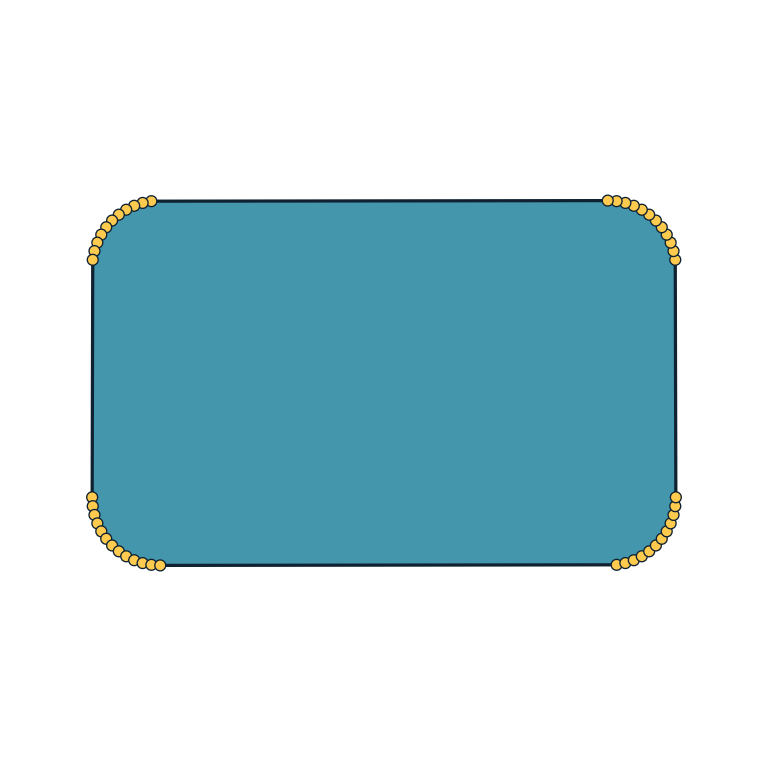
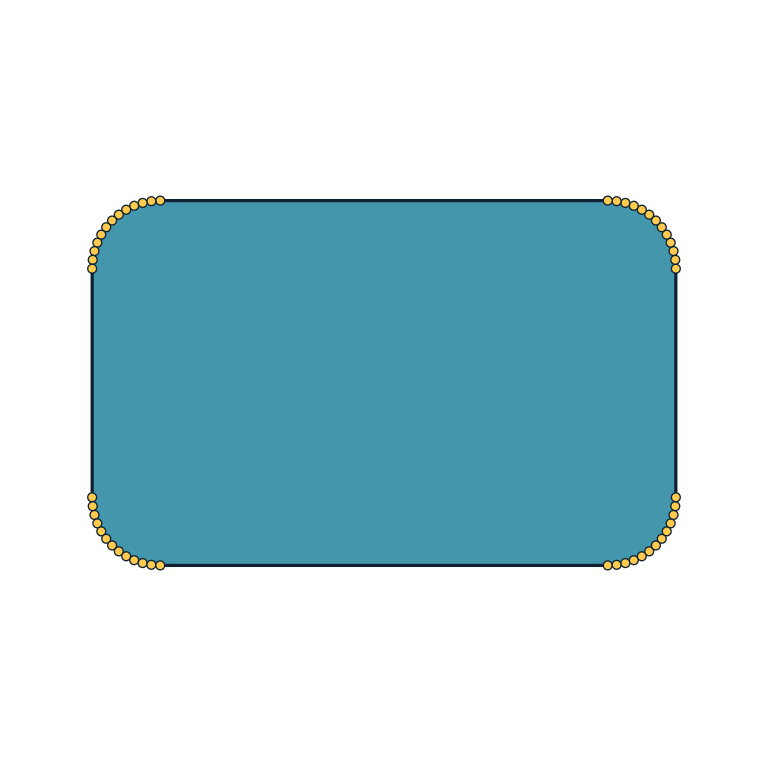
Retain rounded rectangle tangent endpoints and sampled-set fidelity

diff --git a/tests/rounded_rectangle_fidelity.rs b/tests/rounded_rectangle_fidelity.rs
@@ -1,0 +1,298 @@
+#![cfg(feature = "curve")]
+//! Sampling fidelity is separate from a certified topology decision.
+use csgrs::{GeometryCertainty, GeometryContext, Real, curve};
+use hypercurve::CurveRegion2;
+
+fn q(n: i32, d: i32) -> Real {
+    (Real::from(n) / Real::from(d)).unwrap()
+}
+
+fn vertices(region: &CurveRegion2) -> Vec<[Real; 2]> {
+    let profiles = region.boundary_profiles().unwrap();
+    assert_eq!(profiles.len(), 1);
+    let (material, holes) = profiles[0].linear_contours().unwrap().unwrap();
+    assert!(holes.is_empty());
+    material
+        .segments()
+        .iter()
+        .map(|edge| [edge.start().x().clone(), edge.start().y().clone()])
+        .collect()
+}
+
+#[test]
+fn one_chord_per_corner_retains_all_straight_sides_and_exact_area() {
+    let region = curve::rounded_rectangle(4.into(), 2.into(), q(1, 2), 1).unwrap();
+    // A 4x2 rectangle minus four right triangles with legs 1/2.
+    assert_eq!(region.filled_area().unwrap(), Some(q(15, 2)));
+    let expected = [
+        [Real::zero(), q(1, 2)],
+        [q(1, 2), Real::zero()],
+        [q(7, 2), Real::zero()],
+        [4.into(), q(1, 2)],
+        [4.into(), q(3, 2)],
+        [q(7, 2), 2.into()],
+        [q(1, 2), 2.into()],
+        [Real::zero(), q(3, 2)],
+    ];
+    let actual = vertices(&region);
+    assert_eq!(actual.len(), expected.len());
+    assert!(expected.iter().all(|point| actual.contains(point)));
+}
+
+#[test]
+fn clamped_capsules_keep_nonzero_straight_sides() {
+    for (width, height) in [(4, 2), (2, 4)] {
+        for radius in [1, 100] {
+            let region =
+                curve::rounded_rectangle(width.into(), height.into(), radius.into(), 1)
+                    .unwrap();
+            // The corner radius clamps to one: 8 - 4*(1/2) = 6.
+            assert_eq!(region.filled_area().unwrap(), Some(6.into()));
+            assert_eq!(vertices(&region).len(), 6);
+        }
+    }
+}
+
+#[test]
+fn original_published_sampling_resolutions_retain_tangent_vertices() {
+    for (label, width, height, requested_radius, radius, samples) in [
+        ("benchmark", 12.into(), 8.into(), 2.into(), 2.into(), 8),
+        (
+            "README rational dimensions",
+            q(24, 10),
+            q(15, 10),
+            q(28, 100),
+            q(28, 100),
+            12,
+        ),
+        (
+            "README literal ingress",
+            Real::try_from(2.4).unwrap(),
+            Real::try_from(1.5).unwrap(),
+            Real::try_from(0.28).unwrap(),
+            Real::try_from(0.28).unwrap(),
+            12,
+        ),
+        ("strict catalog", 2.into(), 1.into(), q(3, 4), q(1, 2), 4),
+    ] {
+        let result = curve::rounded_rectangle_with_context(
+            width.clone(),
+            height.clone(),
+            requested_radius,
+            samples,
+            &GeometryContext::STRICT,
+        )
+        .unwrap();
+        assert_eq!(result.certainty, GeometryCertainty::Certified);
+        let actual = vertices(&result.value);
+        for expected in [
+            [Real::zero(), radius.clone()],
+            [radius.clone(), Real::zero()],
+            [&width - &radius, Real::zero()],
+            [width.clone(), radius.clone()],
+            [width.clone(), &height - &radius],
+            [&width - &radius, height.clone()],
+            [radius.clone(), height.clone()],
+            [Real::zero(), &height - &radius],
+        ] {
+            assert!(
+                actual.contains(&expected),
+                "{label}: omitted tangent {expected:?}"
+            );
+        }
+    }
+}
+
+#[test]
+fn full_radius_and_sharp_corner_controls_remain_defined() {
+    let diamond = curve::rounded_rectangle(2.into(), 2.into(), 1.into(), 1).unwrap();
+    assert_eq!(diamond.filled_area().unwrap(), Some(2.into()));
+    assert_eq!(vertices(&diamond).len(), 4);
+    for (radius, samples) in [(0, 3), (1, 0)] {
+        let sharp =
+            curve::rounded_rectangle(4.into(), 2.into(), radius.into(), samples).unwrap();
+        assert_eq!(sharp.filled_area().unwrap(), Some(8.into()));
+        assert_eq!(vertices(&sharp).len(), 4);
+    }
+}
+
+#[test]
+fn algebraic_corners_and_symbolic_dimensions_keep_independently_known_areas() {
+    let octants = curve::rounded_rectangle(4.into(), 2.into(), q(1, 2), 2).unwrap();
+    // Four quarter-circle sectors become eight triangles of central angle pi/4.
+    let area = Real::from(7) + q(1, 2) * Real::from(2).sqrt().unwrap();
+    // Real's structural equality does not identify differently ordered sums.
+    // Require a strict proof of mathematical equality, never a float tolerance.
+    assert_eq!(
+        hyperlimit::compare_reals(
+            &octants.filled_area().unwrap().unwrap(),
+            &area,
+            hyperlimit::PredicatePolicy::STRICT,
+        )
+        .value(),
+        Some(std::cmp::Ordering::Equal)
+    );
+    let symbolic = curve::rounded_rectangle(Real::pi(), 2.into(), 10.into(), 1).unwrap();
+    assert_eq!(
+        hyperlimit::compare_reals(
+            &symbolic.filled_area().unwrap().unwrap(),
+            &(Real::from(2) * Real::pi() - Real::from(2)),
+            hyperlimit::PredicatePolicy::STRICT,
+        )
+        .value(),
+        Some(std::cmp::Ordering::Equal)
+    );
+}
+
+fn pipeline() -> csgrs::TriangleMesh {
+    use hypercurve::BooleanOp;
+    let source = curve::rounded_rectangle_with_context(
+        4.into(),
+        2.into(),
+        q(1, 2),
+        1,
+        &GeometryContext::STRICT,
+    )
+    .unwrap();
+    assert_eq!(source.certainty, GeometryCertainty::Certified);
+    let translated = curve::try_translated_with_context(
+        &source.value,
+        10.into(),
+        (-3).into(),
+        &GeometryContext::STRICT,
+    )
+    .unwrap();
+    assert_eq!(translated.certainty, GeometryCertainty::Certified);
+    let cutter =
+        curve::try_translated(&curve::square(1.into()).unwrap(), 11.into(), q(-5, 2)).unwrap();
+    let cut = hypercurve::evaluate_under(hyperlimit::PredicatePolicy::STRICT, || {
+        translated
+            .value
+            .boolean_region(&cutter, BooleanOp::Difference)
+    });
+    assert!(cut.is_certified());
+    let cut = cut.into_unverified().unwrap();
+    assert_eq!(cut.filled_area().unwrap(), Some(q(13, 2)));
+    let restored = cut.boolean_region(&cutter, BooleanOp::Union).unwrap();
+    assert_eq!(restored.filled_area().unwrap(), Some(q(15, 2)));
+    assert!(
+        restored
+            .boolean_region(&translated.value, BooleanOp::Difference)
+            .unwrap()
+            .is_empty()
+    );
+    let solid = curve::try_extrude(&cut, 3.into(), &GeometryContext::STRICT).unwrap();
+    assert_eq!(solid.certainty, GeometryCertainty::Certified);
+    assert_solid(&solid.value);
+    solid.value
+}
+
+fn assert_solid(mesh: &csgrs::TriangleMesh) {
+    assert!(
+        mesh.is_closed_manifold_geometry(&GeometryContext::STRICT.mesh_context())
+            .unwrap()
+            .value
+    );
+    let six_volume = mesh.triangles.iter().fold(Real::zero(), |sum, triangle| {
+        let [a, b, c] = triangle.indices().map(|i| mesh.positions[i].to_vector());
+        sum + a.dot(&b.cross(&c))
+    });
+    assert_eq!(six_volume, Real::from(117));
+}
+
+#[test]
+fn corrected_profiles_compose_with_transforms_holes_booleans_and_extrusion() {
+    pipeline();
+}
+
+#[cfg(feature = "obj-io")]
+#[test]
+fn dyadic_profile_pipeline_survives_the_obj_boundary_without_value_loss() {
+    let mesh = pipeline();
+    let exported = csgrs::io::obj::to_obj(&mesh, "rounded-hole").unwrap();
+    let restored =
+        csgrs::io::obj::from_obj_with_context(exported.as_bytes(), &GeometryContext::STRICT)
+            .unwrap();
+    assert_eq!(restored.certainty, GeometryCertainty::Certified);
+    // All coordinates in this fixture are dyadic and exactly representable at
+    // the finite export boundary. This is not a losslessness claim for curves.
+    assert_eq!(restored.value.positions, mesh.positions);
+    assert_solid(&restored.value);
+}
+
+#[test]
+fn approximate_clamp_facts_remain_qualified_and_do_not_warm_strict_success() {
+    let sine = Real::e().sin();
+    let cosine = Real::e().cos();
+    let radius = &sine * &sine + &cosine * &cosine;
+    assert!(
+        curve::rounded_rectangle_with_context(
+            2.into(),
+            4.into(),
+            radius.clone(),
+            1,
+            &GeometryContext::STRICT
+        )
+        .is_err()
+    );
+    let result = curve::rounded_rectangle_with_context(
+        2.into(),
+        4.into(),
+        radius.clone(),
+        1,
+        &GeometryContext::APPROXIMATE_512,
+    )
+    .unwrap();
+    assert_eq!(result.certainty, GeometryCertainty::Approximate512Consumed);
+    assert!(!result.value.is_empty());
+    assert!(
+        curve::rounded_rectangle_with_context(
+            2.into(),
+            4.into(),
+            radius,
+            1,
+            &GeometryContext::STRICT
+        )
+        .is_err()
+    );
+}
+
+#[test]
+fn capacity_covers_every_corner_endpoint_even_before_empty_shortcuts() {
+    let count = (isize::MAX as usize) / (4 * std::mem::size_of::<[Real; 2]>());
+    assert!(matches!(
+        curve::rounded_rectangle(Real::zero(), Real::one(), Real::one(), count),
+        Err(csgrs::errors::ValidationError::CapacityOverflow)
+    ));
+}
+
+#[cfg(feature = "gerber-io")]
+#[test]
+fn public_gerber_obrounds_retain_straight_sides_through_format_roundtrip() {
+    use csgrs::io::gerber;
+    use hypercurve::{Point2, RegionPointLocation};
+    let source = b"%FSLAX46Y46*%\n%MOMM*%\n%ADD10O,4.0X2.0*%\nD10*\nX0Y0D03*\nM02*\n";
+    for context in [GeometryContext::STRICT, GeometryContext::APPROXIMATE_512] {
+        let imported = gerber::import_gerber_with_context(source, &context).unwrap();
+        assert_eq!(imported.certainty, GeometryCertainty::Certified);
+        let exported = gerber::export_gerber(&imported.value.0).unwrap();
+        let restored = gerber::import_gerber_with_context(&exported, &context).unwrap();
+        for region in [&imported.value.0, &restored.value.0] {
+            for (x, y, expected) in [
+                (-1, -1, RegionPointLocation::Boundary),
+                (1, -1, RegionPointLocation::Boundary),
+                (-1, 1, RegionPointLocation::Boundary),
+                (1, 1, RegionPointLocation::Boundary),
+                (0, 0, RegionPointLocation::Inside),
+                (3, 0, RegionPointLocation::Outside),
+            ] {
+                assert_eq!(
+                    region
+                        .classify_point(&Point2::from_values(x, y).into())
+                        .unwrap(),
+                    expected
+                );
+            }
+        }
+    }
+}

diff --git a/src/curve/native.rs b/src/curve/native.rs
@@ -603,7 +603,13 @@ pub fn egg(width: Real, length: Real, segments: usize) -> CurveRegion2 {
     region_from_ring(&points)
 }
 
-/// Rounded rectangle.
+/// Rounded rectangle represented by exact samples and straight chords.
+///
+/// The radius is clamped to half the smaller dimension. For a positive radius
+/// and `corner_segments = n > 0`, each quarter-circle has `n` uniform angular
+/// intervals, and every nonzero straight side joins its tangent endpoints.
+/// Only coincident endpoints are omitted. Zero radius or zero corner segments
+/// selects the sharp rectangle. Dimensions and radius must be nonnegative.
 pub fn rounded_rectangle(
     width: Real,
     height: Real,
@@ -629,7 +635,11 @@ pub fn rounded_rectangle_with_context(
     context: &GeometryContext,
 ) -> Result<GeometryOutcome<CurveRegion2>, ValidationError> {
     let decisions = GeometryDecisions::new(context);
-    let point_capacity = solid::capacity::<[Real; 2]>(corner_segments.checked_mul(4))?;
+    let point_capacity = solid::capacity::<[Real; 2]>(
+        corner_segments
+            .checked_add(1)
+            .and_then(|count| count.checked_mul(4)),
+    )?;
     let width_sign = nonnegative_with(&width, "width", &decisions)?;
     let height_sign = nonnegative_with(&height, "height", &decisions)?;
     nonnegative_with(&corner_radius, "corner_radius", &decisions)?;
@@ -638,13 +648,16 @@ pub fn rounded_rectangle_with_context(
     }
     let half_width = (&width / Real::from(2_u8)).expect("two is nonzero");
     let half_height = (&height / Real::from(2_u8)).expect("two is nonzero");
-    let radius = match compare_with(&corner_radius, &half_width, &decisions)? {
-        Ordering::Greater => half_width,
-        Ordering::Equal | Ordering::Less => corner_radius,
+    let (radius, shared_x) = match compare_with(&corner_radius, &half_width, &decisions)? {
+        Ordering::Greater => (half_width, true),
+        Ordering::Equal => (corner_radius, true),
+        Ordering::Less => (corner_radius, false),
     };
-    let radius = match compare_with(&radius, &half_height, &decisions)? {
-        Ordering::Greater => half_height,
-        Ordering::Equal | Ordering::Less => radius,
+    let (radius, shared_x, shared_y) = match compare_with(&radius, &half_height, &decisions)? {
+        // half_height < radius <= half_width also proves a nonzero horizontal side.
+        Ordering::Greater => (half_height, false, true),
+        Ordering::Equal => (radius, shared_x, true),
+        Ordering::Less => (radius, shared_x, false),
     };
     if corner_segments == 0
         || decisions.sign(&radius, "corner radius")? == hyperreal::RealSign::Zero
@@ -669,13 +682,17 @@ pub fn rounded_rectangle_with_context(
     let mut points = solid::reserved(point_capacity)?;
     let corner_count = centers.len();
     for (corner_index, (cx, cy, start)) in centers.into_iter().enumerate() {
+        let shared_start = match corner_index {
+            1 | 3 => shared_x,
+            2 => shared_y,
+            _ => false,
+        };
         for index in 0..=corner_segments {
-            // Adjacent analytic corner intervals share their endpoint, and the
-            // last endpoint closes onto the first. Omit those duplicates by
-            // construction instead of making repeated equality decisions over
-            // transcendental coordinates.
-            if (corner_index > 0 && index == 0)
-                || (corner_index + 1 == corner_count && index == corner_segments)
+            // The clamp comparisons prove which tangent endpoints coincide.
+            // Other adjacent corners are joined by a nonzero straight side,
+            // whose two endpoints must both remain in the sampled boundary.
+            if (shared_start && index == 0)
+                || (shared_y && corner_index + 1 == corner_count && index == corner_segments)
             {
                 continue;
             }

diff --git a/readme.md b/readme.md
@@ -123,6 +123,16 @@ restrictions. A zero rounded-corner segment count selects the sharp rectangle;
 corner radii are clamped to half the smaller dimension. Sampling still defines
 a polygon and provides no analytic-surface fidelity bound.
 
+Rounded rectangles retain every nonzero straight side between their tangent
+endpoints. A positive `corner_segments = n` gives `n` equal-angle chords per
+quarter-circle and at most `4 * (n + 1)` vertices; only proven coincident
+endpoints are omitted. This corrects an earlier sampler that omitted distinct
+tangent endpoints, cutting away part of the intended polygon. For example,
+`rounded_rectangle(4, 2, 1/2, 1)` has area `15/2`, rather than `4`.
+Existing rounded-rectangle and Gerber obround outputs may therefore gain
+vertices and change exported bytes or previews. Regenerate derived artifacts;
+this is a geometry correction, not a performance-only change.
+
 The ring cache retains only successful strict constructions, keyed by owned
 exact coordinate rows, in a thread-local FIFO of at most 64 entries. Approximate
 requests may reuse those proofs but do not populate the cache. Failures are not
